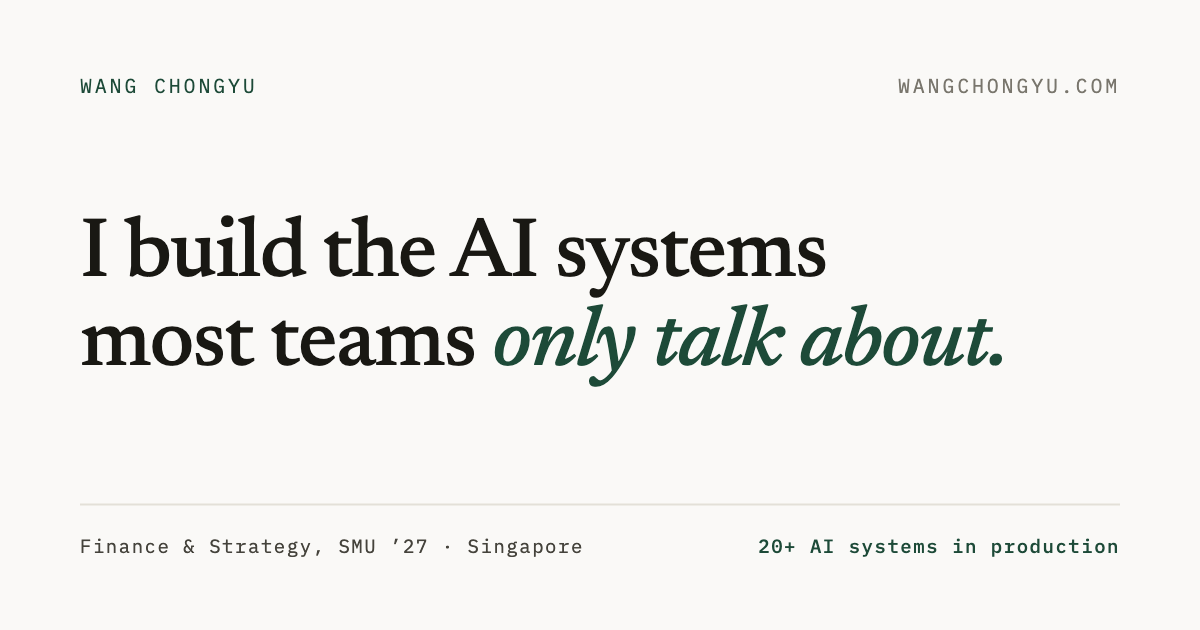
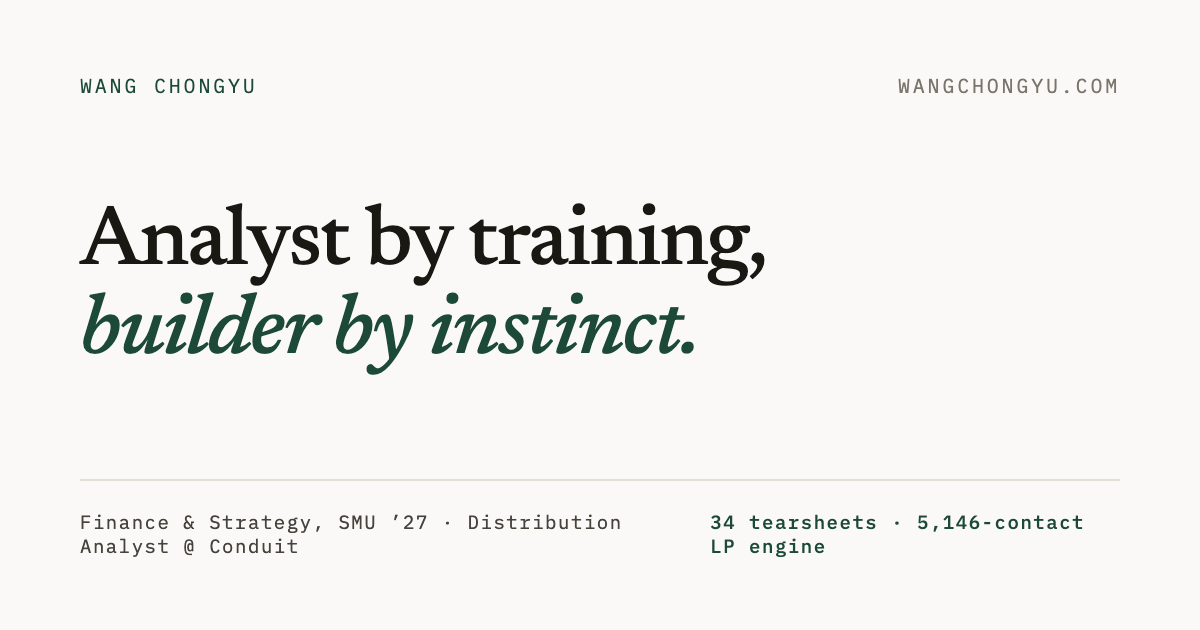
Flip positioning finance-first per grounded critique: Conduit flagship, equity-research desk reframe, About section, ledger-accurate stats
Claude-Session: https://claude.ai/code/session_01XKU7L3HeHj783dCaAGvZEz

diff --git a/app/page.jsx b/app/page.jsx
@@ -20,9 +20,9 @@ export default function Home() {
             </p>
           </div>
           <h1 className="display">
-            I build the AI systems
+            Analyst by training,
             <br />
-            most teams <em>only talk about.</em>
+            <em>builder by instinct.</em>
           </h1>
           <div className="hero-below">
             <div>
@@ -143,6 +143,20 @@ export default function Home() {
                 <strong>{a.title}</strong>
                 <span>{a.note}</span>
               </div>
+            ))}
+          </div>
+        </section>
+
+        <section className="section wrap" id="about">
+          <div className="section-head">
+            <div>
+              <p className="kicker">{site.about.kicker}</p>
+              <h2>{site.about.heading}</h2>
+            </div>
+          </div>
+          <div className="about-body">
+            {site.about.body.map((p) => (
+              <p key={p.slice(0, 24)}>{p}</p>
             ))}
           </div>
         </section>

diff --git a/app/globals.css b/app/globals.css
@@ -523,6 +523,19 @@ button:focus-visible {
   margin-top: 2px;
 }
 
+/* ---------- about ---------- */
+
+.about-body {
+  max-width: 68ch;
+}
+
+.about-body p {
+  font-size: var(--fs-m);
+  line-height: 1.7;
+  color: var(--ink-2);
+  margin-bottom: 20px;
+}
+
 /* ---------- experience ---------- */
 
 .xp-item {
